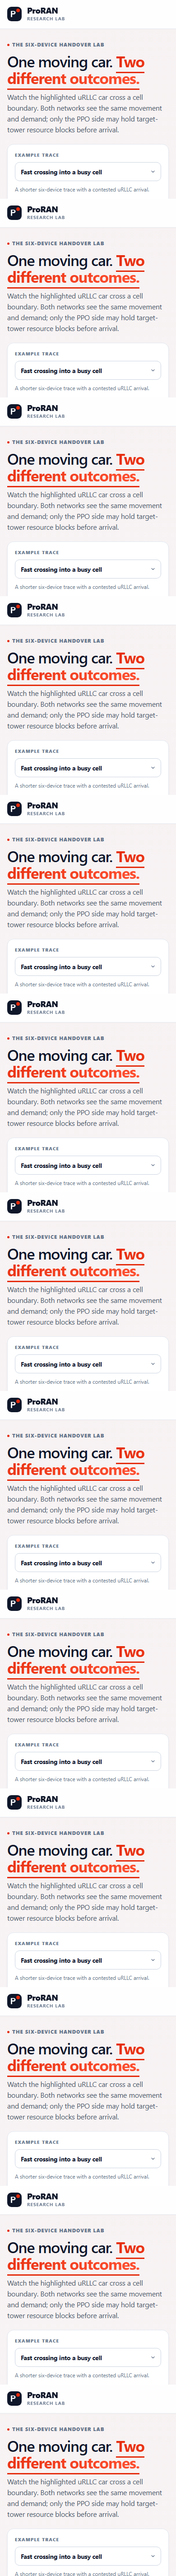
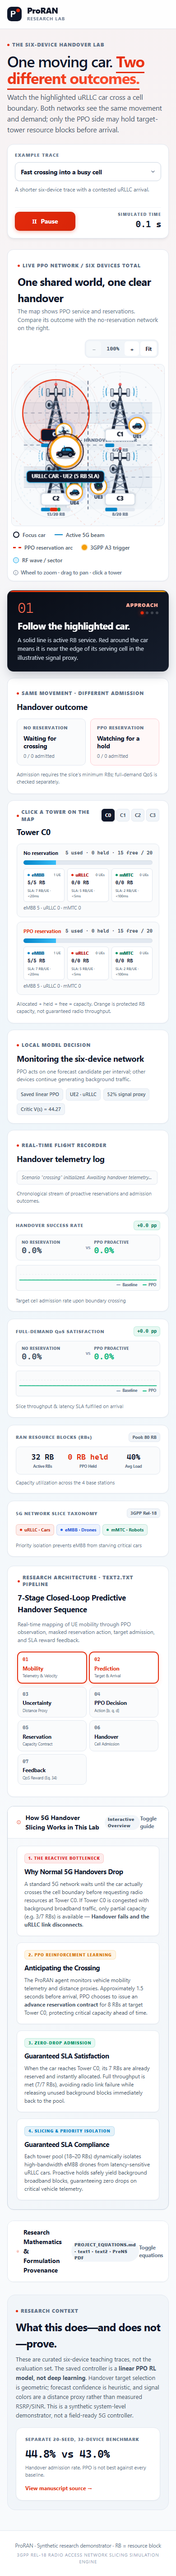
feat: update car.svg to side-view autonomous vehicle and maintain upright orientation

Changed region(s): [[0.0308, 0.0624, 0.9846, 1.0]]

diff --git a/web/static/lab.js b/web/static/lab.js
@@ -765,13 +765,19 @@ function drawMap(now) {
       ctx.stroke();
     }
 
-    // Icon render with dynamic travel heading rotation
-    const heading = (ue.vx !== 0 || ue.vy !== 0) ? Math.atan2(ue.vy, ue.vx) : 0;
+    // Icon render: side-view car stays upright (flips on horizontal movement), drones/robots rotate with heading
     const icon = icons[ue.entity_type];
     if (icon && icon.complete && icon.naturalWidth) {
       ctx.save();
       ctx.translate(pos.x, pos.y);
-      ctx.rotate(heading);
+      if (ue.entity_type === "car") {
+        if (ue.vx < -0.05) {
+          ctx.scale(-1, 1);
+        }
+      } else {
+        const heading = (ue.vx !== 0 || ue.vy !== 0) ? Math.atan2(ue.vy, ue.vx) : 0;
+        ctx.rotate(heading);
+      }
       ctx.drawImage(icon, -iconSize / 2, -iconSize / 2, iconSize, iconSize);
       ctx.restore();
     } else {
